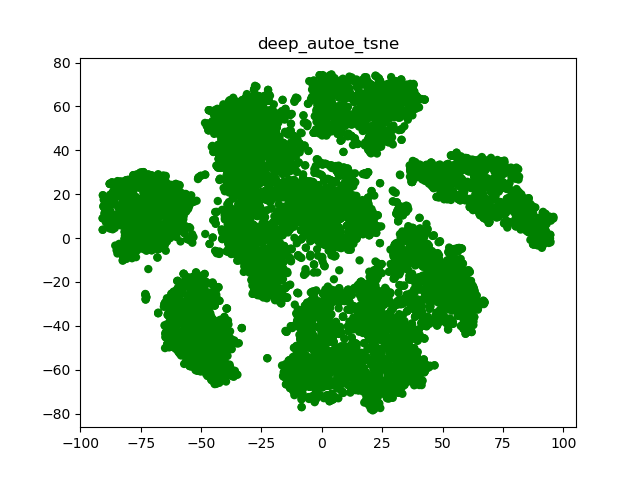
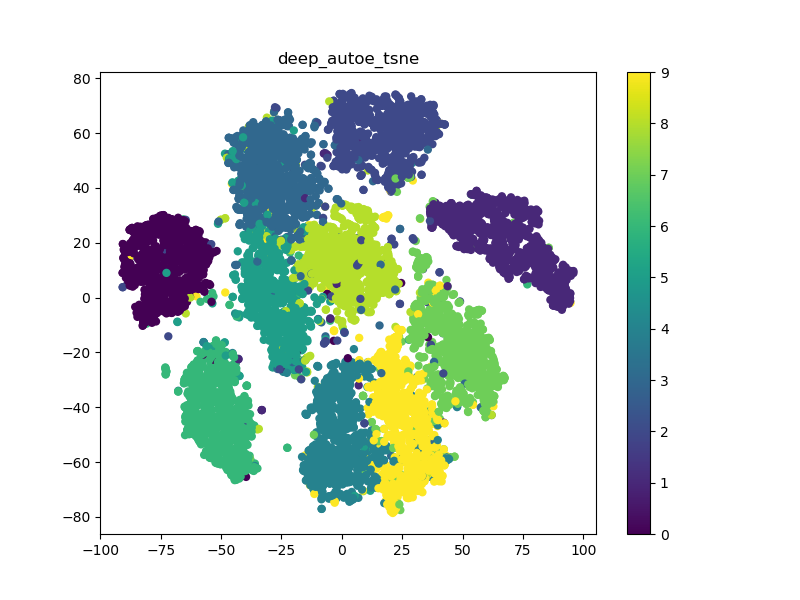
feature labels

diff --git a/visualize_latent_space.py b/visualize_latent_space.py
@@ -5,12 +5,15 @@ import os
 
 # tsne_features_path = 'simple_autoe_tsne.pickle'
 # autoe_features_path = 'simple_autoe_features.pickle'
+# autoe_labels_path = 'simple_autoe_labels.pickle'
 
-# tsne_features_path = 'reg_autoe_tsne.pickle'
-# autoe_features_path = 'reg_autoe_features.pickle'
+tsne_features_path = 'sparse_autoe_tsne.pickle'
+autoe_features_path = 'sparse_autoe_features.pickle'
+autoe_labels_path = 'sparse_autoe_labels.pickle'
 
-tsne_features_path = 'deep_autoe_tsne.pickle'
-autoe_features_path = 'deep_autoe_features.pickle'
+# tsne_features_path = 'deep_autoe_tsne.pickle'
+# autoe_features_path = 'deep_autoe_features.pickle'
+# autoe_labels_path = 'deep_autoe_labels.pickle'
 
 # TODO
 # tsne_features_path = 'denoise_autoe_tsne.pickle'
@@ -22,23 +25,29 @@ autoe_features_path = 'deep_autoe_features.pickle'
 
 tsne_features = None
 
-if os.path.exists(tsne_features_path):
-    print('t-sne features found. Loading ...')
-    tsne_features = pickle.load(open(tsne_features_path, 'rb'))
-else:
-    if os.path.exists(autoe_features_path):
-        print('Pre-extracted features found. Loading them ...')
-        latent_space = pickle.load(open(autoe_features_path, 'rb'))
+if os.path.exists(autoe_labels_path):
+    labels = pickle.load(open(autoe_labels_path, 'rb'))
 
-        print('t-SNE happening ...!')
-        tsne_features = TSNE().fit_transform(latent_space)
-
-        pickle.dump(tsne_features, open(tsne_features_path, 'wb'))
+    if os.path.exists(tsne_features_path):
+        print('t-sne features found. Loading ...')
+        tsne_features = pickle.load(open(tsne_features_path, 'rb'))
     else:
-        print('Nothing found ...')
+        if os.path.exists(autoe_features_path):
+            print('Pre-extracted features found. Loading them ...')
+            latent_space = pickle.load(open(autoe_features_path, 'rb'))
 
-if tsne_features.any():
-    plt.figure(figsize=(6, 6), dpi=100)
-    plt.scatter(tsne_features[:, 0], tsne_features[:, 1], c="g", edgecolors='none')
-    plt.title(os.path.splitext(tsne_features_path)[0])
-    plt.show()
+            print('t-SNE happening ...!')
+            tsne_features = TSNE().fit_transform(latent_space)
+
+            pickle.dump(tsne_features, open(tsne_features_path, 'wb'))
+        else:
+            print('Nothing found ...')
+
+    if tsne_features.any():
+        plt.figure(figsize=(8, 6), dpi=100)
+        plt.scatter(tsne_features[:, 0], tsne_features[:, 1], c=labels, edgecolors='none')
+        plt.title(os.path.splitext(tsne_features_path)[0])
+        plt.colorbar()
+        plt.show()
+else:
+    print('No labels')

diff --git a/simple_autoencoder.py b/simple_autoencoder.py
@@ -12,7 +12,8 @@ import pickle
 use_regularizer = True
 my_regularizer = None
 my_epochs = 50
-pickle_path = 'simple_autoe_features.pickle'
+features_path = 'simple_autoe_features.pickle'
+labels_path = 'simple_autoe_labels.pickle'
 
 if use_regularizer:
     # add a sparsity constraint on the encoded representations
@@ -21,7 +22,8 @@ if use_regularizer:
     # and a larger number of epochs as the added regularization the model
     # is less likely to overfit and can be trained longer
     my_epochs = 100
-    pickle_path = 'reg_autoe_features.pickle'
+    features_path = 'sparse_autoe_features.pickle'
+    labels_path = 'sparse_autoe_labels.pickle'
 
 # this is the size of our encoded representations
 encoding_dim = 32   # 32 floats -> compression factor 24.5, assuming the input is 784 floats
@@ -58,7 +60,7 @@ decoder = Model(encoded_input, decoder_layer(encoded_input))
 autoencoder.compile(optimizer='adadelta', loss='binary_crossentropy')
 
 # prepare input data
-(x_train, _), (x_test, _) = mnist.load_data()
+(x_train, _), (x_test, y_test) = mnist.load_data()
 
 # normalize all values between 0 and 1 and flatten the 28x28 images into vectors of size 784
 x_train = x_train.astype('float32') / 255.
@@ -83,7 +85,8 @@ encoded_imgs = encoder.predict(x_test)
 decoded_imgs = decoder.predict(encoded_imgs)
 
 # save latent space features 32-d vector
-pickle.dump(encoded_imgs, open(pickle_path, 'wb'))
+pickle.dump(encoded_imgs, open(features_path, 'wb'))
+pickle.dump(y_test, open(labels_path, 'wb'))
 
 n = 10  # how many digits we will display
 plt.figure(figsize=(10, 2), dpi=100)

diff --git a/variational_autoencoder.py b/variational_autoencoder.py
@@ -23,7 +23,6 @@ intermediate_dim = 256
 epochs = 50
 epsilon_std = 1.0
 
-
 x = Input(shape=(original_dim,))
 h = Dense(intermediate_dim, activation='relu')(x)
 z_mean = Dense(latent_dim)(h)
@@ -35,6 +34,7 @@ def sampling(args):
     epsilon = K.random_normal(shape=(K.shape(z_mean)[0], latent_dim), mean=0.,
                               stddev=epsilon_std)
     return z_mean + K.exp(z_log_var / 2) * epsilon
+
 
 # note that "output_shape" isn't necessary with the TensorFlow backend
 z = Lambda(sampling, output_shape=(latent_dim,))([z_mean, z_log_var])
@@ -57,9 +57,8 @@ vae.add_loss(vae_loss)
 vae.compile(optimizer='rmsprop')
 vae.summary()
 
-
 # train the VAE on MNIST digits
-(x_train, y_train), (x_test, y_test) = mnist.load_data()
+(x_train, _), (x_test, y_test) = mnist.load_data()
 
 x_train = x_train.astype('float32') / 255.
 x_test = x_test.astype('float32') / 255.
@@ -78,8 +77,9 @@ encoder = Model(x, z_mean)
 
 # display a 2D plot of the digit classes in the latent space
 x_test_encoded = encoder.predict(x_test, batch_size=batch_size)
-plt.figure(figsize=(6, 6))
+plt.figure(figsize=(8, 6), dpi=100)
 plt.scatter(x_test_encoded[:, 0], x_test_encoded[:, 1], c=y_test)
+plt.title('Variational Autoencoder')
 plt.colorbar()
 plt.show()
 

diff --git a/deep_autoencoder.py b/deep_autoencoder.py
@@ -8,6 +8,9 @@ import pickle
 
 # Deep Autoencoder
 
+features_path = 'deep_autoe_features.pickle'
+labels_path = 'deep_autoe_labels.pickle'
+
 # this is the size of our encoded representations
 encoding_dim = 32   # 32 floats -> compression factor 24.5, assuming the input is 784 floats
 
@@ -51,7 +54,7 @@ decoder = Model(encoded_input, decoder_layer3(decoder_layer2(decoder_layer1(enco
 autoencoder.compile(optimizer='adadelta', loss='binary_crossentropy')
 
 # prepare input data
-(x_train, _), (x_test, _) = mnist.load_data()
+(x_train, _), (x_test, y_test) = mnist.load_data()
 
 # normalize all values between 0 and 1 and flatten the 28x28 images into vectors of size 784
 x_train = x_train.astype('float32') / 255.
@@ -76,7 +79,8 @@ encoded_imgs = encoder.predict(x_test)
 decoded_imgs = decoder.predict(encoded_imgs)
 
 # save latent space features 32-d vector
-pickle.dump(encoded_imgs, open('deep_autoe_features.pickle', 'wb'))
+pickle.dump(encoded_imgs, open(features_path, 'wb'))
+pickle.dump(y_test, open(labels_path, 'wb'))
 
 n = 10  # how many digits we will display
 plt.figure(figsize=(10, 2), dpi=100)

diff --git a/README.md b/README.md
@@ -37,7 +37,7 @@ network has to learn to extract the most relevant features in the bottleneck.
 
 A great explanation by Julien Despois on Latent space visualization can
 be found **[here](https://medium.com/@juliendespois/latent-space-visualization-deep-learning-bits-2-bd09a46920df)**,
-and from which I nicked the above explanation!
+and from where I nicked the above explanation and diagram!
 
 The visualizations are created by carrying out dimensionality reduction
 on the 32-d (or 128-d) features using t-distributed stochastic neighbor
@@ -51,9 +51,12 @@ appropriate feature :-( .
 
 Here a are some 32-d examples:
 
-![](assets/simple_autoe_tsne.png)
+![simple autoencoder latent space](assets/simple_autoe_tsne.png)
 
-![](assets/reg_autoe_tsne.png)
+![sparse autoencoder latent space](assets/sparse_autoe_tsne.png)
 
-![](assets/deep_autoe_tsne.png)
+![deep autoencoder latent space](assets/deep_autoe_tsne.png)
 
+And the output from the 2-d VAE latent space output:
+
+![variational autoencoder latent space](assets/variational_autoe_lspace.png) 
